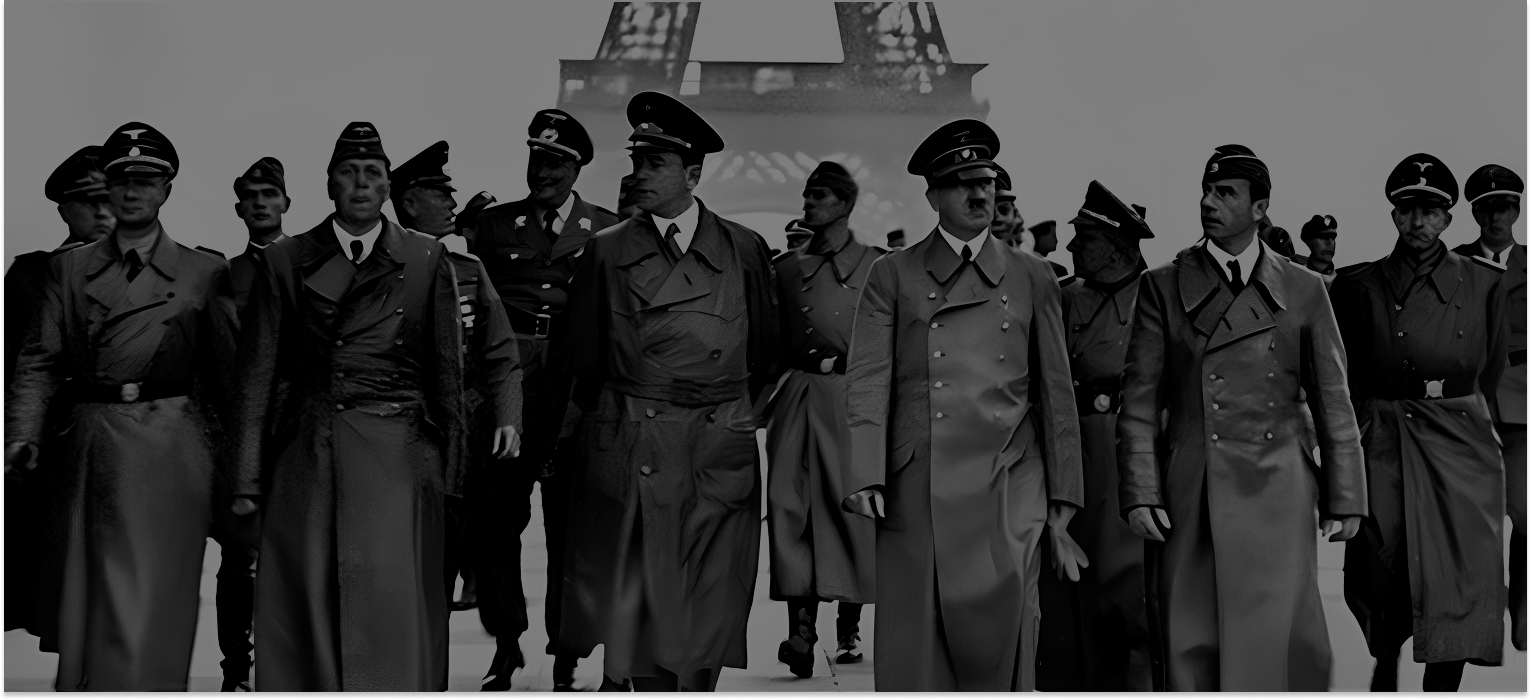
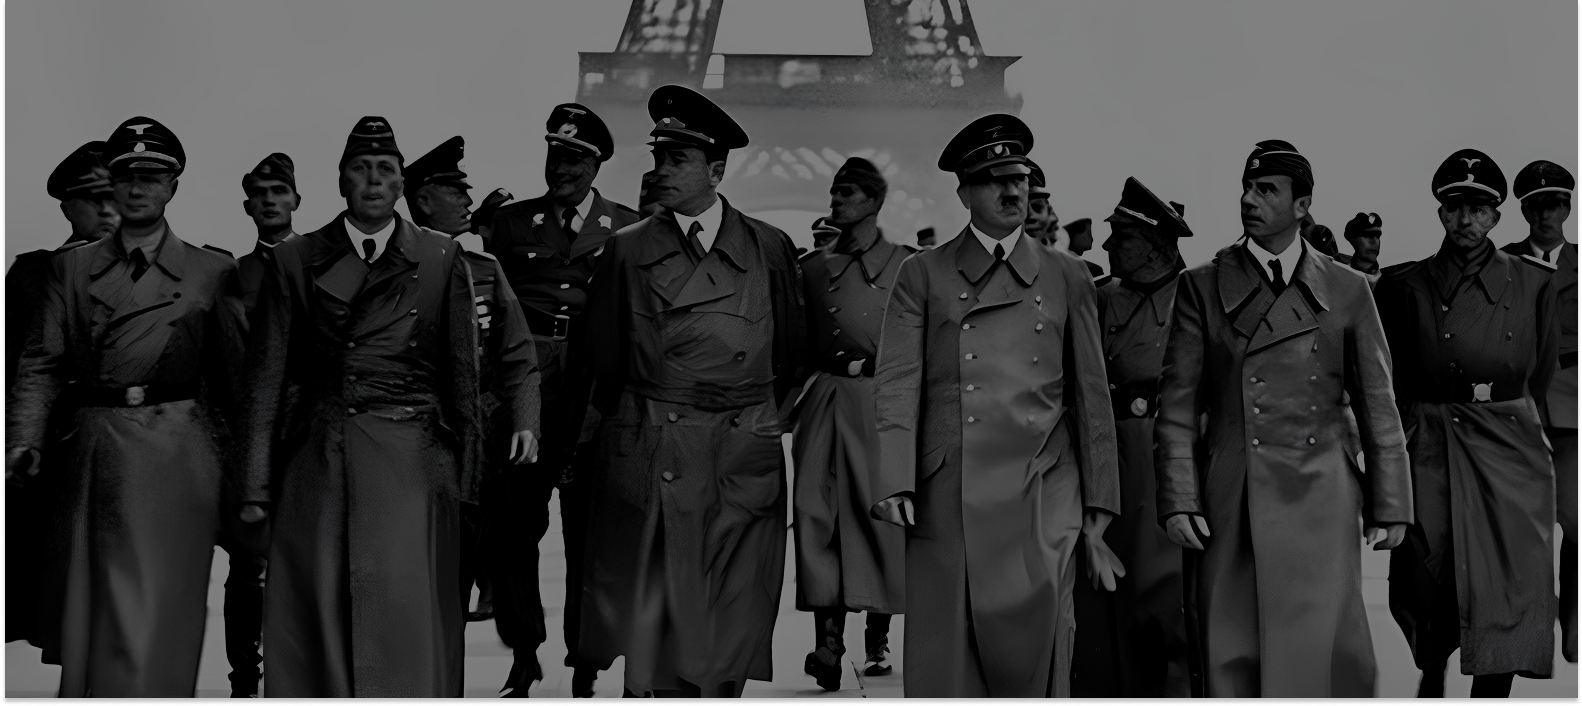
alterando

diff --git a/style.css b/style.css
@@ -1,8 +1,30 @@
+
 body{
     font-family: 'Times New Roman', Times, serif;
     margin: 0;
     background-color: #011640;
+
+    overflow-x: hidden;
+    padding: 0;
 }
+
+.josefin-sans {
+    font-family: "Josefin Sans", sans-serif;
+    font-optical-sizing: auto;
+    font-weight: 500px;
+    font-style: normal;
+  }
+  
+  .kalnia {
+    font-family: "Kalnia", serif;
+    font-optical-sizing: auto;
+    font-weight: 500px;
+    font-style: normal;
+  }
+  
+  .title{
+      font-family: "Kalnia", serif;
+  }  
 
 .header{
     width: 100%;
@@ -19,6 +41,13 @@ body{
 }
 
 h2{
+    margin: 1%;
+}
+
+h1{
+    font-family: "Kalnia", serif;
+
+    color: white;
     margin: 1%;
 }
 
@@ -42,16 +71,16 @@ a{
     display: flex;
     align-items: center;
     justify-content: center;
+    margin: 0;
 }
 
-img{
+img.imagemB{
     margin: 0;
     position: relative;
-}
-
-.imagemB{
-    width: 100%;
-    margin: 0;
+    width: 115vw;
+    height: 115vh;
+    display: block;
+    object-fit: cover;
 }
 
 .title{
@@ -59,24 +88,6 @@ img{
     z-index: 1;
     color: #FFFFFF;
     font-size: 60px;
-}
-
-.josefin-sans {
-  font-family: "Josefin Sans", sans-serif;
-  font-optical-sizing: auto;
-  font-weight: 500px;
-  font-style: normal;
-}
-
-.kalnia {
-  font-family: "Kalnia", serif;
-  font-optical-sizing: auto;
-  font-weight: 500px;
-  font-style: normal;
-}
-
-.title{
-    font-family: "Kalnia", serif;
 }
 
 .subtitulo{
@@ -100,4 +111,12 @@ img{
 
 p{
     margin: 2px;
+}
+
+hr{
+    height: 4px;
+    background-color: #FFFFFF;
+    margin: 0;
+    margin-top: -1%;
+    position: relative;
 }

diff --git a/index.html b/index.html
@@ -42,6 +42,18 @@
             <p class="citacao"> “A batalha da França está perdida.”</p>
             <p>Marechal Pétain</p>
         </div>
+        <hr>
+    </div>
+
+    <section class="Mapa">
+        <!-- colocar MapBox -->
+         <h1> MAPA </h1>
+    </section>
+
+    <div class="linhaTempo">
+        <div class="tituloLinha"> 
+            <h1> Linha do tempo </h1>
+        </div>
     </div>
     
 </body>
